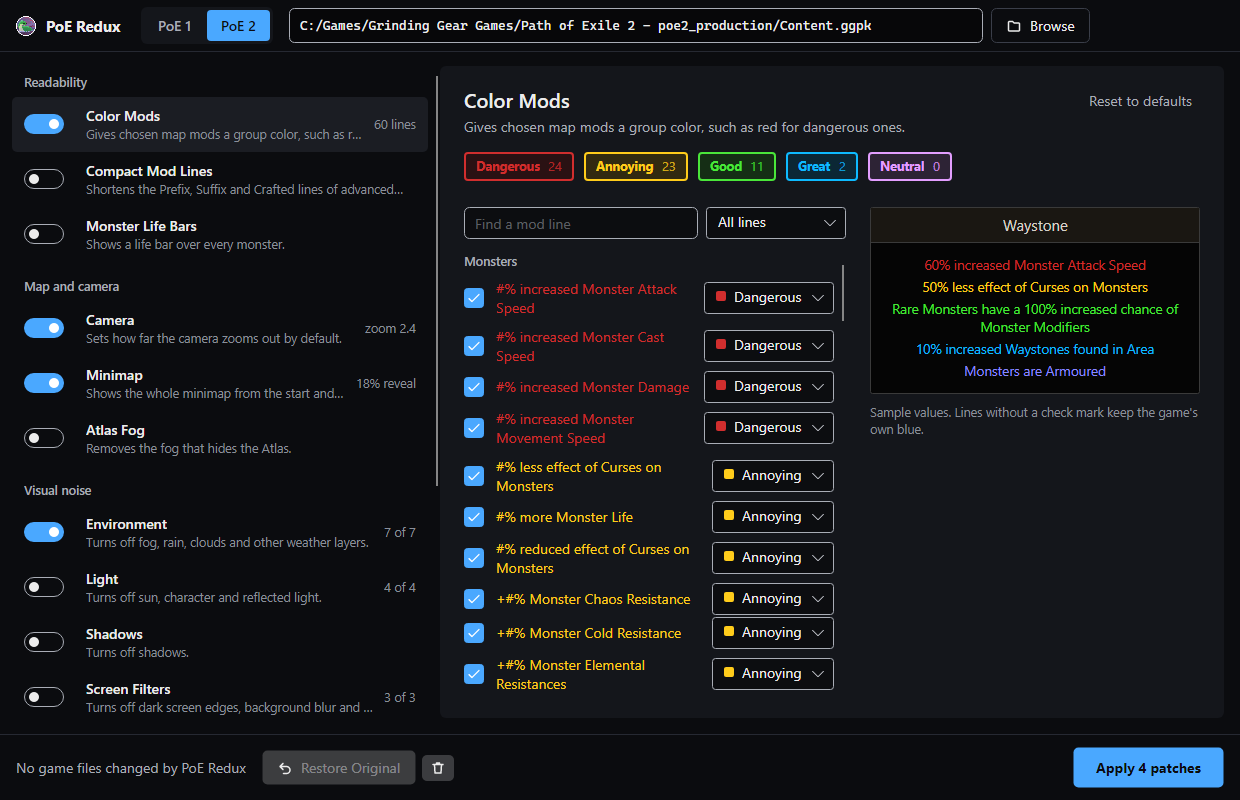
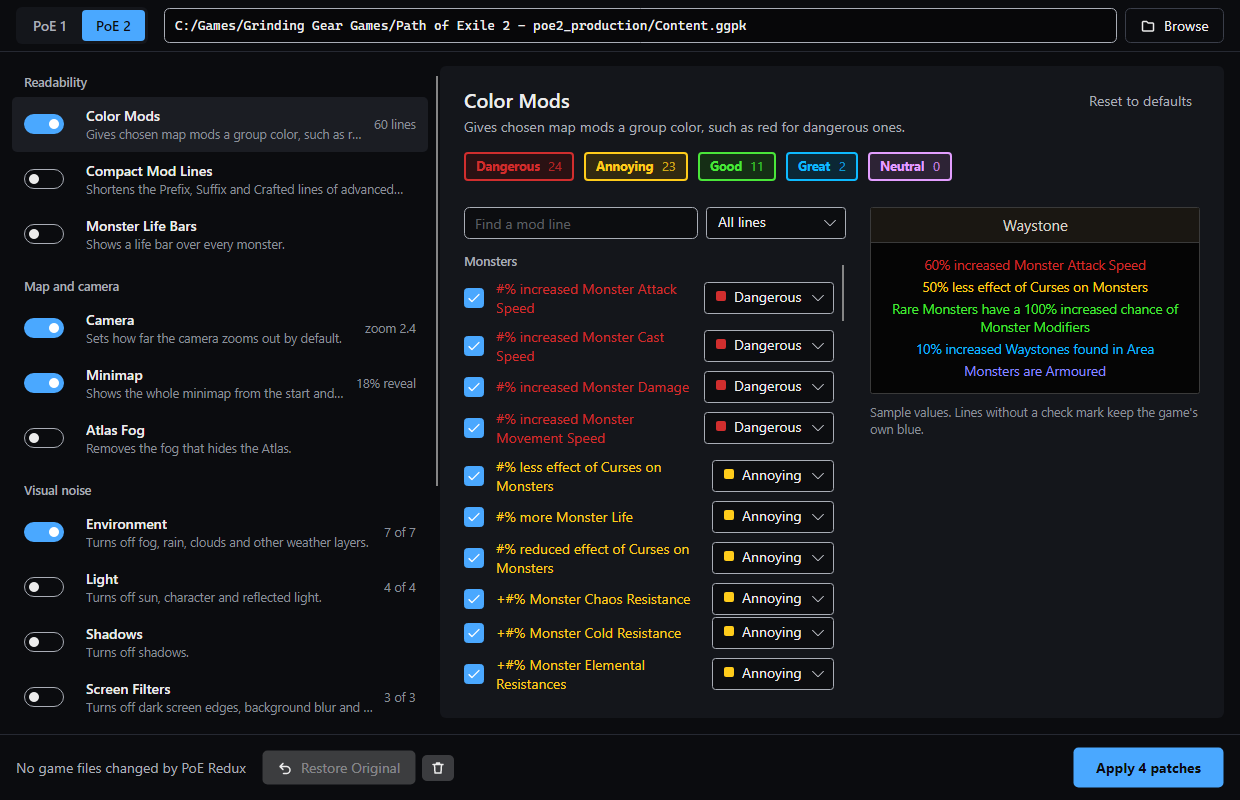
Use the native title bar
The drawn title bar printed the window title over the app's own name.
Windows draws its title bar dark for this app, so the window uses it and
the top row keeps only the game switch and the game file. A game file
path that cannot be used gets a red border.

Changed region(s): [[0.0, 0.0, 0.7048, 0.0625], [0.7968, 0.0, 0.8887, 0.0625], [0.9194, 0.0, 0.9806, 0.0625]]

diff --git a/PoeRedux/ViewModels/MainWindowViewModel.cs b/PoeRedux/ViewModels/MainWindowViewModel.cs
@@ -61,7 +61,7 @@ public partial class MainWindowViewModel : ObservableObject
     }
 
     [ObservableProperty]
-    [NotifyPropertyChangedFor(nameof(PathProblem))]
+    [NotifyPropertyChangedFor(nameof(PathProblem), nameof(HasPathError))]
     [NotifyCanExecuteChangedFor(nameof(ApplyCommand), nameof(RestoreCommand))]
     public partial string GamePath { get; set; } = "";
 
@@ -106,6 +106,9 @@ public partial class MainWindowViewModel : ObservableObject
         1 => "Apply 1 patch",
         _ => $"Apply {SelectedCount} patches",
     };
+
+    /// <summary>A path was typed or chosen, and it cannot be used.</summary>
+    public bool HasPathError => GamePath.Trim().Length > 0 && PathProblem is not null;
 
     /// <summary>Why the game file cannot be used, or null when it can.</summary>
     public string? PathProblem =>
